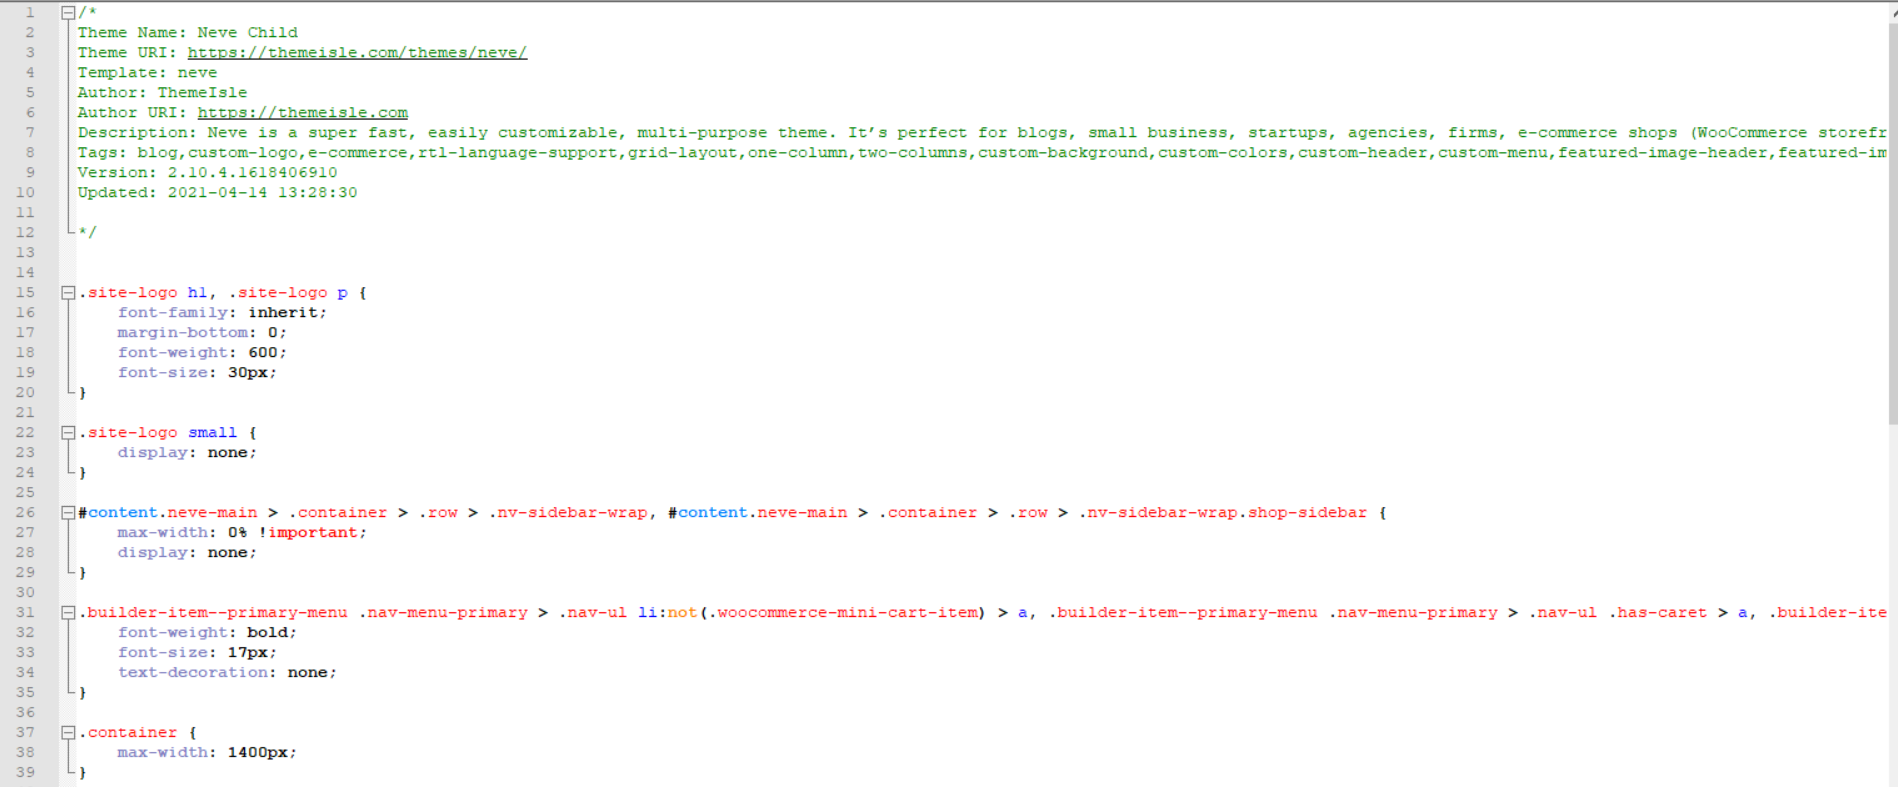
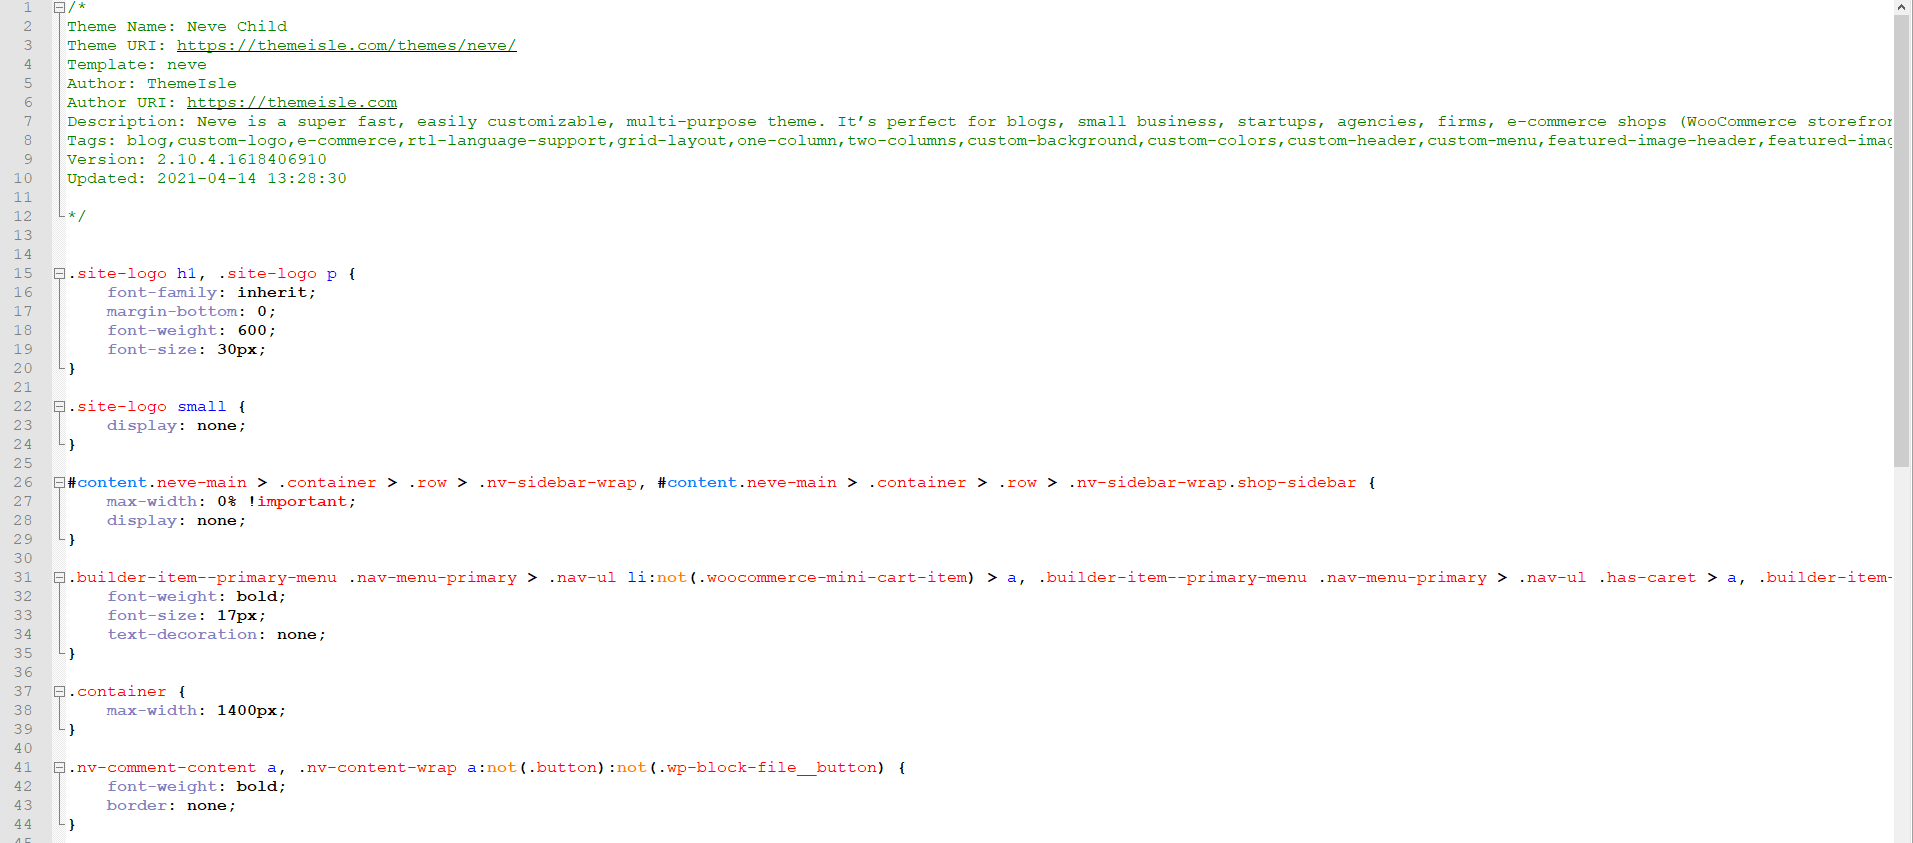
neve-child-update2

diff --git a/neve-child/style.css b/neve-child/style.css
@@ -38,13 +38,7 @@ Updated: 2021-04-14 13:28:30
     max-width: 1400px;
 }
 
-.wp-block-buttons > .wp-block-button:last-child {
-    margin-right: 0;
-    background-color: #b82a4b;
-}
-
 .nv-comment-content a, .nv-content-wrap a:not(.button):not(.wp-block-file__button) {
-    color: white;
     font-weight: bold;
     border: none;
 }
@@ -57,6 +51,10 @@ Updated: 2021-04-14 13:28:30
 .has-neve-text-color-color {
     color: var(--nv-text-color) !important;
     font-family: "Georgia";
+}
+
+.has-neve-link-color-color {
+    color: black;
 }
 
 .nv-nav-wrap {
@@ -78,7 +76,14 @@ Updated: 2021-04-14 13:28:30
 .wp-block-buttons > .wp-block-button {
     display: inline-block;
     margin-left: 0;
-    margin-right: .5em;
     margin-bottom: .5em;
-    background-color: #b82a4b;
+}
+
+.wp-block-buttons > .wp-block-button:last-child {
+    margin-right: 0;
+}
+
+.wp-block-columns {
+    display: flex;
+    flex-wrap: wrap;
 }

diff --git a/neve-child/functions.php b/neve-child/functions.php
@@ -1,5 +1,4 @@
 <?php
-include('custom-shortcodes.php');
 if ( !defined( 'ABSPATH' ) ) exit;
 
 if ( !function_exists( 'chld_thm_cfg_locale_css' ) ):
